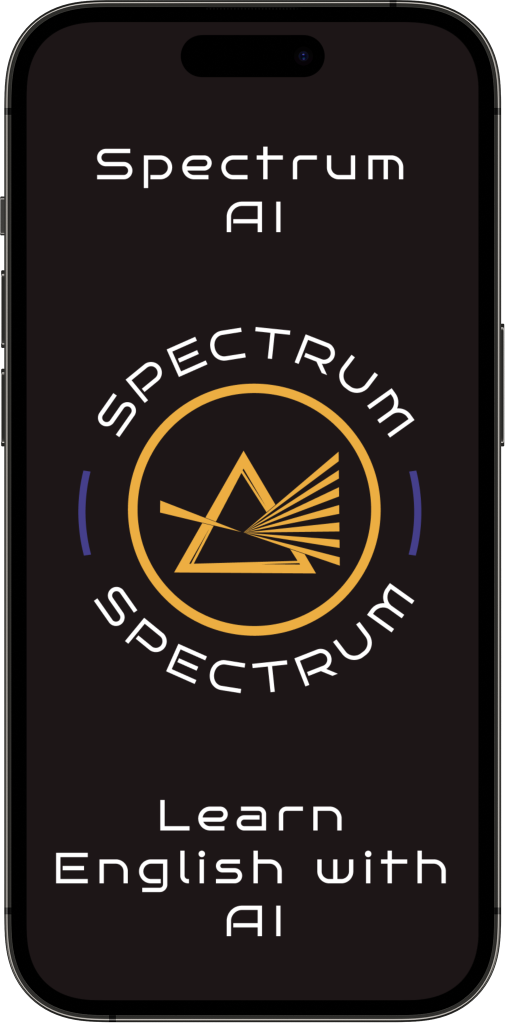
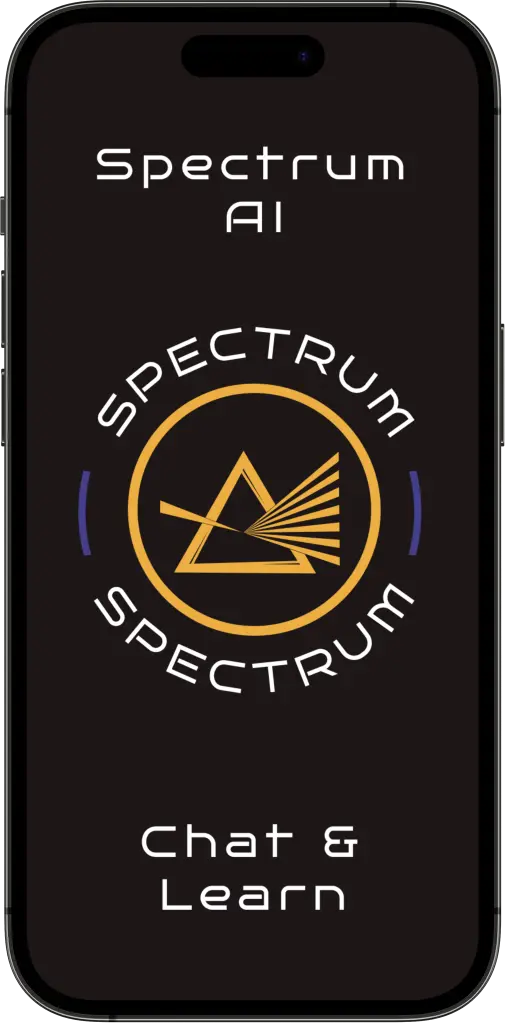
fixs img & text

diff --git a/index.html b/index.html
@@ -54,7 +54,7 @@
                             <a class="nav-item nav-link ts-scroll" href="#contact">Contact</a>
                             <a class="nav-item nav-link ts-scroll" href="blog">Blog</a>
                             <a class="nav-item nav-link ts-scroll btn btn-primary btn-sm text-white ml-3 px-3 ts-width__auto"
-                                href="#download">Download</a>
+                                href="#download" data-bg-color="#453F8B">Download</a>
                         </div>
                         <!--end navbar-nav-->
                     </div>
@@ -68,8 +68,9 @@
             <div class="container align-self-center">
                 <div class="row align-items-center">
                     <div class="col-sm-7">
-                        <h1>Learn English with AI</h1>
-                        <a href="#how-it-works" class="btn btn-primary btn-lg ts-scroll"
+                        <h3 class="ts-opacity__50">Spectrum app</h3>
+                        <h1>Chat & Learn</h1>
+                        <a href="#how-it-works" class="btn btn-primary btn-lg ts-scroll" data-bg-color="#453F8B"
                             aria-label="Learn more">Learn
                             More</a>
                     </div>
@@ -123,9 +124,10 @@
                                     <img src="assets/img/icon1.svg" style="max-width: 150px;"
                                         alt="Learning English with AI icon">
                                 </figure>
-                                <h4>Learning English with AI</h4>
+                                <h4>Chat & Learn</h4>
                                 <p>
-                                    Receive English language training under the guidance of AI.
+                                    Join live conversations in our customized group chats. Traveling, sports, fintech —
+                                    you’ll find a perfect fit for your interests.
                                 </p>
                             </figure>
                         </div>
@@ -138,8 +140,8 @@
                                 </figure>
                                 <h4>Chats with AI teacher</h4>
                                 <p>
-                                    Communicate in a private chat with your personal AI teacher, and in group chats with
-                                    other people led by an AI-powered chatbot.
+                                    Chat with real people, and get guidance from AI. Practice the conversational skills
+                                    you need. Dive into the adaptive and entertaining learning here.
                                 </p>
                             </figure>
                         </div>
@@ -152,8 +154,8 @@
                                 </figure>
                                 <h4>AI analyzes your mistakes</h4>
                                 <p>
-                                    AI detects the mistakes you make when performing tasks and communicating, analyzes
-                                    them, and calculates your training program
+                                    AI detects mistakes when you communicate and hints you the correct way to speak
+                                    immediately. Make progress and learn English relevant to your needs.
                                 </p>
                             </figure>
                         </div>
@@ -177,48 +179,44 @@
                         <div class="col-md-5 col-xl-5">
                             <div class="features-text">
                                 <p>
-                                    Our AI-powered Spectrum app offers the following features:
+                                    <b>AI-moderated Group Chat</b>
                                 </p>
                                 <p>
-                                    Chatting with an AI bot designed specifically for language learning. The bot will
-                                    identify errors, provide feedback, and suggest topics of interest.
+                                    Join topic-customized group chats and communicate with other participants. Learn
+                                    relevant English skills and get comprehensive feedback from the AI. Let the AI
+                                    correct your mistakes and see your knowledge multiply
                                 </p>
                                 <p>
-                                    Learning vocabulary and grammar at different proficiency levels, ranging from
-                                    beginner
-                                    to intermediate.
-                                </p>
-                                <p>
-                                    Chatting with other users in AI-monitored groups, organized by specific subjects.
+                                    No more confusing or robotic conversations; get the best out of flexible and adaptive learning.
                                 </p>
                             </div>
                         </div>
                         <div class="col-md-7 col-xl-7 text-center">
                             <ul class="nav nav-tabs justify-content-center my-5" id="myTab" role="menu"
                                 aria-label="Features">
-                                <li class="nav-item" role="menuitem">
-                                    <a class="nav-link active" id="group-tab" data-toggle="tab" href="#group"
-                                        aria-controls="group" aria-selected="false" aria-label="Group chat">
-                                        <h4>Group chat with AI</h4>
-                                    </a>
-                                </li>
-                                <li class="nav-item" role="menuitem">
-                                    <a class="nav-link" id="ind-tab" data-toggle="tab" href="#ind"
+                                <!--<li class="nav-item" role="menuitem">
+                                    <a class="nav-link active" id="ind-tab" data-toggle="tab" href="#ind"
                                         aria-controls="ind" aria-selected="true" aria-label="Personal chat">
                                         <h4>Personal chat with AI teacher</h4>
+                                    </a>
+                                </li>-->
+                                <li class="nav-item" role="menuitem">
+                                    <a class="nav-link" id="group-tab" data-toggle="tab" href="#group"
+                                        aria-controls="group" aria-selected="false" aria-label="Group chat">
+                                        <h4>Group chat with AI</h4>
                                     </a>
                                 </li>
                             </ul>
                             <div class="tab-content pt-5 ts-tabs-presentation" id="myTabContent"
                                 data-bg-image="assets/img/bg.svg" data-bg-repeat="repeat" data-bg-size="400px"
                                 data-bg-position="top center">
-                                <div class="tab-pane fade show active" id="group" role="tabpanel" aria-labelledby="group">
-                                    <img src="assets/img/phoneGroup.webp" style="max-width:300px;"
-                                        alt="Group chat screen">
-                                </div>
-                                <div class="tab-pane fade" id="ind" role="tabpanel" aria-labelledby="ind">
+                                <!--<div class="tab-pane fade show active" id="ind" role="tabpanel" aria-labelledby="ind">
                                     <img src="assets/img/phoneInd.webp" style="max-width:300px;"
                                         alt="Induvidual chat screen">
+                                </div>-->
+                                <div class="tab-pane fade" id="group" role="tabpanel" aria-labelledby="group">
+                                    <img src="assets/img/phoneGroup.webp" style="max-width:300px;"
+                                        alt="Group chat screen">
                                 </div>
                             </div>
                         </div>
@@ -400,6 +398,7 @@
             <!--END OUR TEAM ****************************************************************************************-->
         </main>
         <!--end #content-->
+
         <!--*********************************************************************************************************-->
         <!--************ FOOTER *************************************************************************************-->
         <!--*********************************************************************************************************-->
